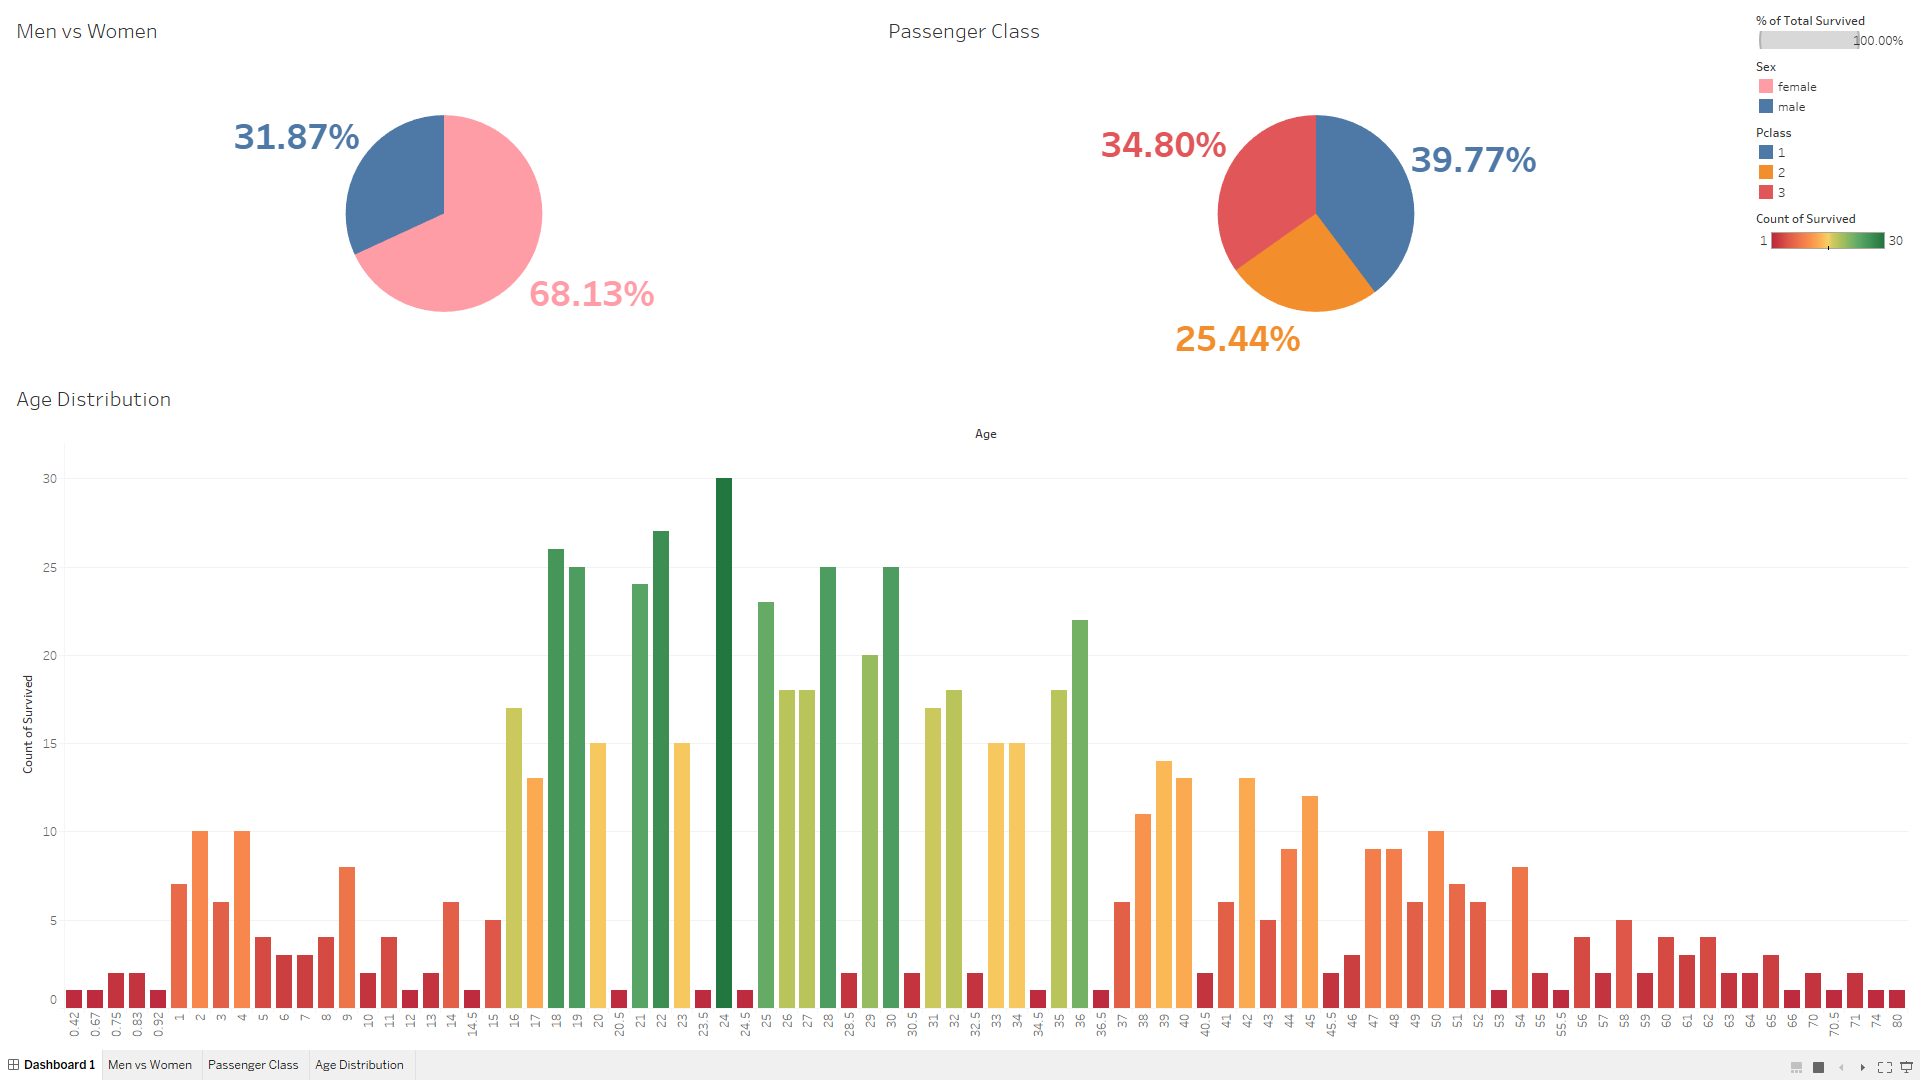
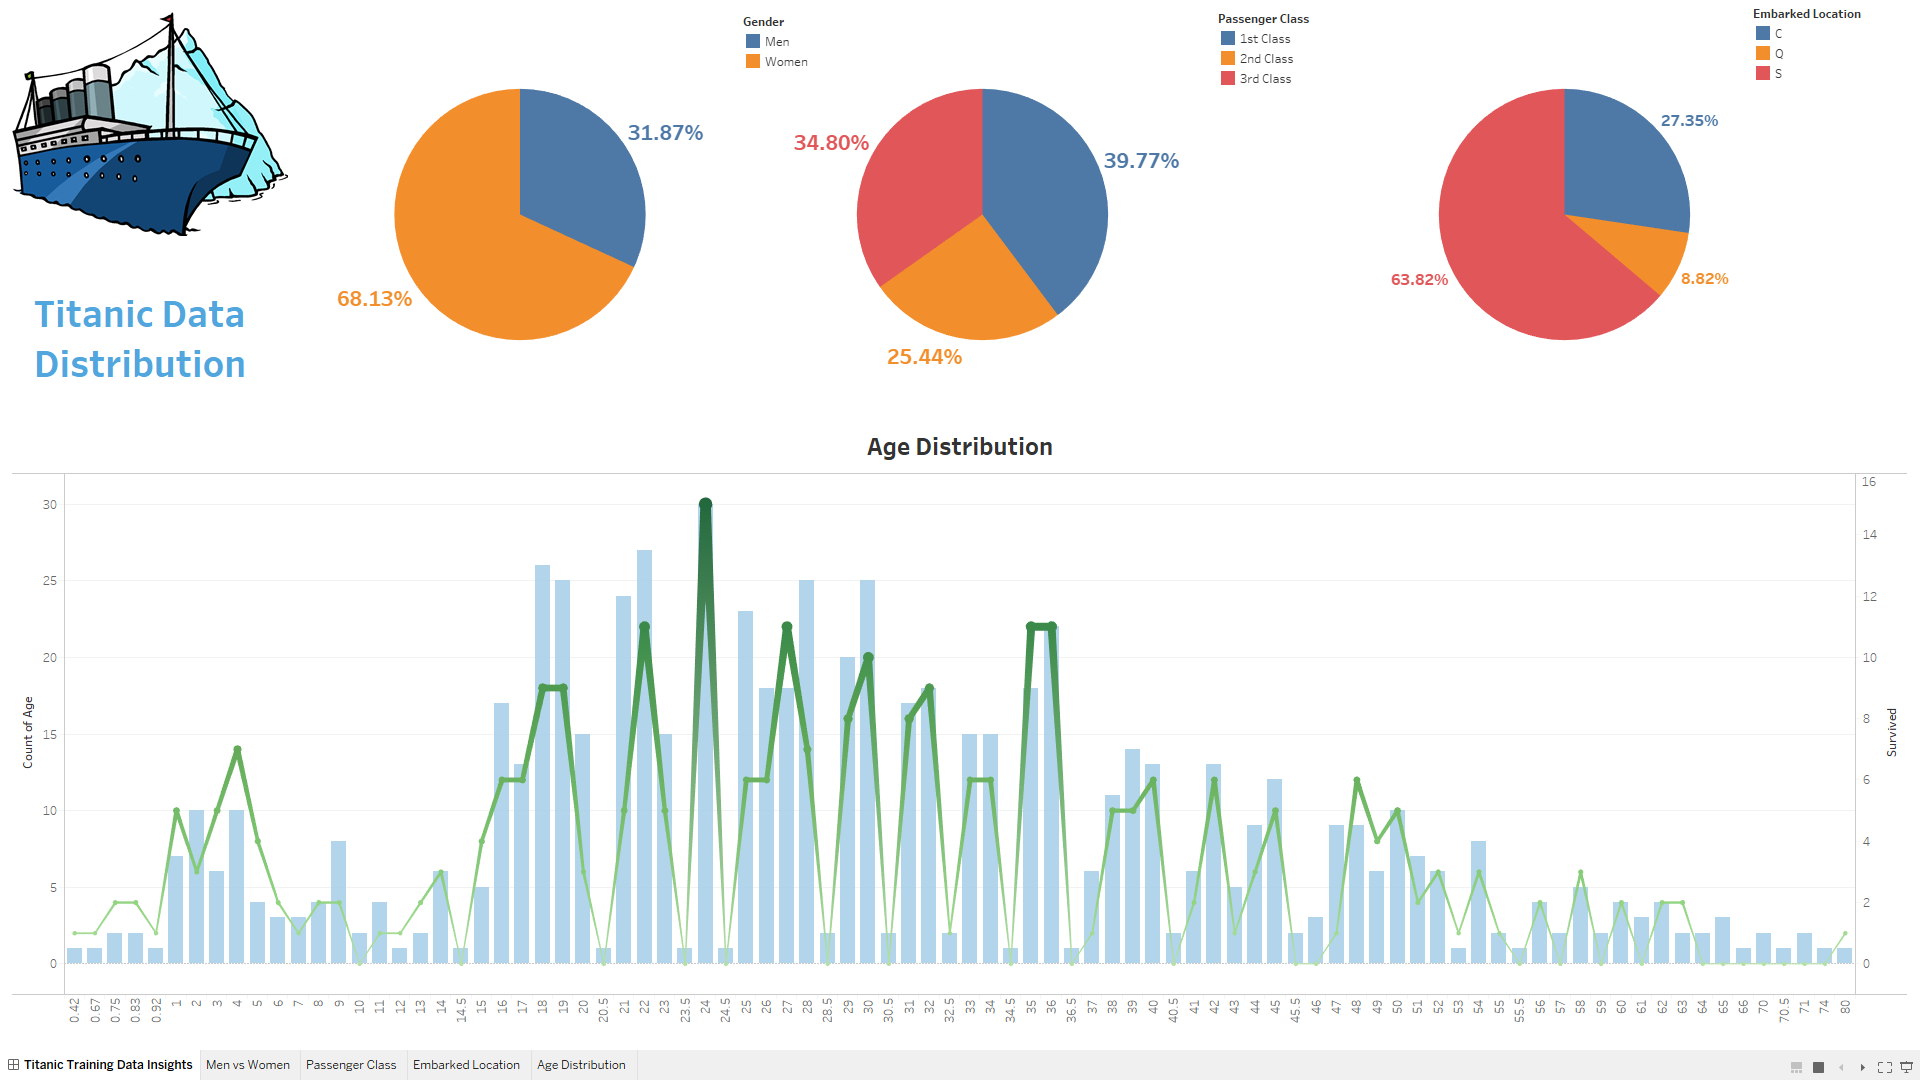
Updated Tableau file, dashboard image, and README file.

diff --git a/README.md b/README.md
@@ -60,5 +60,8 @@ The two columns that we are examining are the Age and the Sibsp columns.
 
 ![Training data Sibsp distribution](Images/training_data_sibsp_distribution.PNG)
 
+For a more interactive examinsation of the training data, I have linked my Tableau workbook below
+
+![Tableau dashboard image](Images/tableau_dashboard_1.PNG)
 
 ## Analysis
